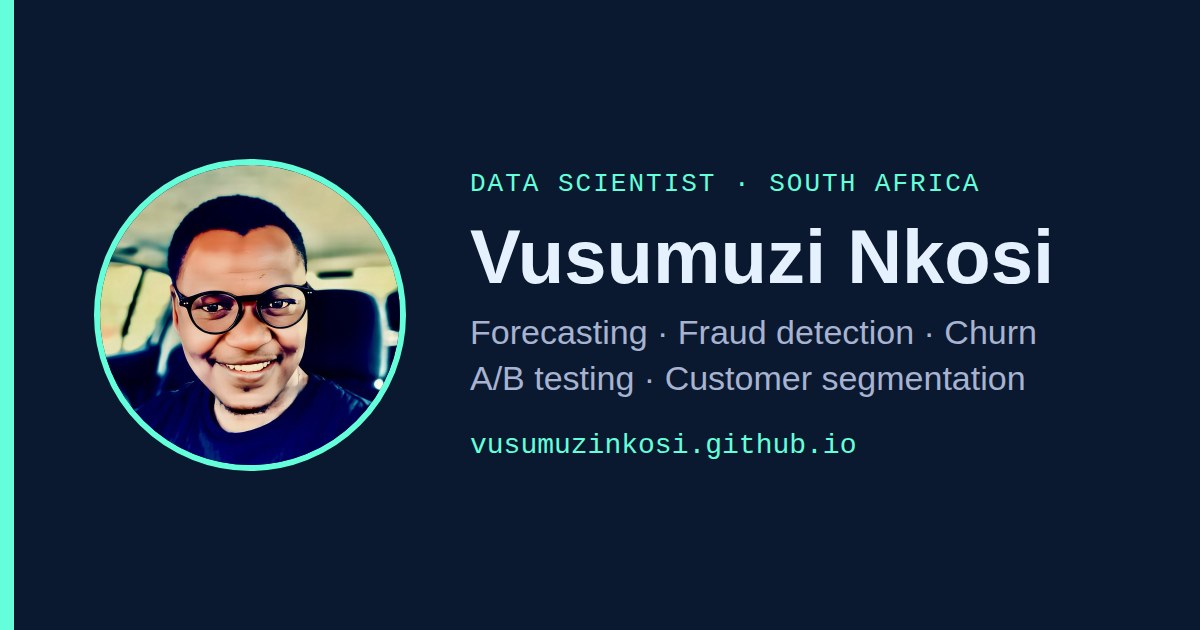
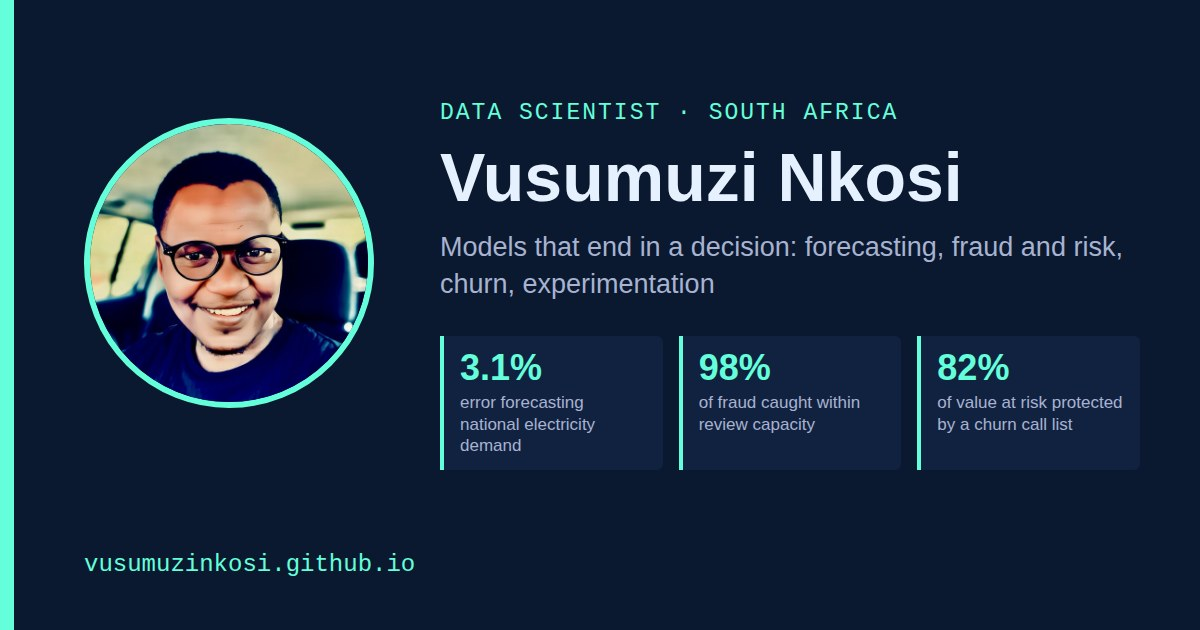
New main link preview with headline results
The site-wide preview image now shows a one-line summary and the three
headline results (3.1%, 98%, 82%) instead of a list of topics. Its URL
carries ?v=20261025a so link previews pick up the new image.

diff --git a/writing/from-the-classroom-to-data-science.html b/writing/from-the-classroom-to-data-science.html
@@ -9,12 +9,12 @@
     <meta property="og:title" content="From the classroom to data science | Vusumuzi Nkosi">
     <meta property="og:description" content="What carried over from nine years of teaching mathematics, what I had to learn from scratch, and what I would tell someone making a similar move.">
     <meta property="og:url" content="https://vusumuzinkosi.github.io/writing/from-the-classroom-to-data-science.html">
-    <meta property="og:image" content="https://vusumuzinkosi.github.io/assets/images/social-preview.jpg">
+    <meta property="og:image" content="https://vusumuzinkosi.github.io/assets/images/social-preview.jpg?v=20261025a">
     <meta property="og:image:width" content="1200">
     <meta property="og:image:height" content="630">
     <meta property="og:site_name" content="Vusumuzi Nkosi">
     <meta name="twitter:card" content="summary_large_image">
-    <meta name="twitter:image" content="https://vusumuzinkosi.github.io/assets/images/social-preview.jpg">
+    <meta name="twitter:image" content="https://vusumuzinkosi.github.io/assets/images/social-preview.jpg?v=20261025a">
     <link rel="canonical" href="https://vusumuzinkosi.github.io/writing/from-the-classroom-to-data-science.html">
     <meta name="theme-color" content="#0a192f">
     <link rel="icon" type="image/svg+xml" href="../favicon.svg">
@@ -34,7 +34,7 @@
       "description": "What carried over from nine years of teaching mathematics, what I had to learn from scratch, and what I would tell someone making a similar move.",
       "url": "https://vusumuzinkosi.github.io/writing/from-the-classroom-to-data-science.html",
       "mainEntityOfPage": "https://vusumuzinkosi.github.io/writing/from-the-classroom-to-data-science.html",
-      "image": "https://vusumuzinkosi.github.io/assets/images/social-preview.jpg",
+      "image": "https://vusumuzinkosi.github.io/assets/images/social-preview.jpg?v=20261025a",
       "datePublished": "2026-10-25",
       "author": {
         "@type": "Person",

diff --git a/writing/beat-the-baseline-first.html b/writing/beat-the-baseline-first.html
@@ -9,12 +9,12 @@
     <meta property="og:title" content="Beat the baseline first | Vusumuzi Nkosi">
     <meta property="og:description" content="Why every model I build has to beat something simple before I trust it, with numbers from my own projects.">
     <meta property="og:url" content="https://vusumuzinkosi.github.io/writing/beat-the-baseline-first.html">
-    <meta property="og:image" content="https://vusumuzinkosi.github.io/assets/images/social-preview.jpg">
+    <meta property="og:image" content="https://vusumuzinkosi.github.io/assets/images/social-preview.jpg?v=20261025a">
     <meta property="og:image:width" content="1200">
     <meta property="og:image:height" content="630">
     <meta property="og:site_name" content="Vusumuzi Nkosi">
     <meta name="twitter:card" content="summary_large_image">
-    <meta name="twitter:image" content="https://vusumuzinkosi.github.io/assets/images/social-preview.jpg">
+    <meta name="twitter:image" content="https://vusumuzinkosi.github.io/assets/images/social-preview.jpg?v=20261025a">
     <link rel="canonical" href="https://vusumuzinkosi.github.io/writing/beat-the-baseline-first.html">
     <meta name="theme-color" content="#0a192f">
     <link rel="icon" type="image/svg+xml" href="../favicon.svg">
@@ -34,7 +34,7 @@
       "description": "Why every model I build has to beat something simple before I trust it, with numbers from my own projects.",
       "url": "https://vusumuzinkosi.github.io/writing/beat-the-baseline-first.html",
       "mainEntityOfPage": "https://vusumuzinkosi.github.io/writing/beat-the-baseline-first.html",
-      "image": "https://vusumuzinkosi.github.io/assets/images/social-preview.jpg",
+      "image": "https://vusumuzinkosi.github.io/assets/images/social-preview.jpg?v=20261025a",
       "datePublished": "2026-10-24",
       "author": {
         "@type": "Person",

diff --git a/index.html b/index.html
@@ -9,12 +9,12 @@
     <meta property="og:title" content="Vusumuzi Nkosi | Data Scientist | Forecasting, Fraud &amp; Risk Analytics, Experimentation">
     <meta property="og:description" content="Data scientist in South Africa and mathematics lecturer at Majuba TVET College. Projects in forecasting, fraud detection, churn, A/B testing and segmentation, plus writing on data science, teaching and changing careers.">
     <meta property="og:url" content="https://vusumuzinkosi.github.io/">
-    <meta property="og:image" content="https://vusumuzinkosi.github.io/assets/images/social-preview.jpg">
+    <meta property="og:image" content="https://vusumuzinkosi.github.io/assets/images/social-preview.jpg?v=20261025a">
     <meta property="og:image:width" content="1200">
     <meta property="og:image:height" content="630">
     <meta property="og:site_name" content="Vusumuzi Nkosi">
     <meta name="twitter:card" content="summary_large_image">
-    <meta name="twitter:image" content="https://vusumuzinkosi.github.io/assets/images/social-preview.jpg">
+    <meta name="twitter:image" content="https://vusumuzinkosi.github.io/assets/images/social-preview.jpg?v=20261025a">
     <link rel="canonical" href="https://vusumuzinkosi.github.io/">
     <meta name="theme-color" content="#0a192f">
     <script type="application/ld+json">

diff --git a/projects/index.html b/projects/index.html
@@ -9,12 +9,12 @@
     <meta property="og:title" content="Projects | Vusumuzi Nkosi">
     <meta property="og:description" content="Five end-to-end data science case studies: Eskom demand forecasting, mobile money fraud detection, churn prediction, an A/B test and customer segmentation.">
     <meta property="og:url" content="https://vusumuzinkosi.github.io/projects/">
-    <meta property="og:image" content="https://vusumuzinkosi.github.io/assets/images/social-preview.jpg">
+    <meta property="og:image" content="https://vusumuzinkosi.github.io/assets/images/social-preview.jpg?v=20261025a">
     <meta property="og:image:width" content="1200">
     <meta property="og:image:height" content="630">
     <meta property="og:site_name" content="Vusumuzi Nkosi">
     <meta name="twitter:card" content="summary_large_image">
-    <meta name="twitter:image" content="https://vusumuzinkosi.github.io/assets/images/social-preview.jpg">
+    <meta name="twitter:image" content="https://vusumuzinkosi.github.io/assets/images/social-preview.jpg?v=20261025a">
     <link rel="canonical" href="https://vusumuzinkosi.github.io/projects/">
     <meta name="theme-color" content="#0a192f">
     <link rel="icon" type="image/svg+xml" href="../favicon.svg">

diff --git a/teaching.html b/teaching.html
@@ -9,12 +9,12 @@
     <meta property="og:title" content="Teaching | Vusumuzi Nkosi">
     <meta property="og:description" content="Vusumuzi Nkosi has taught mathematics and IT since 2012, as a Senior Lecturer at Majuba TVET College and before that at Mdumiseni High School.">
     <meta property="og:url" content="https://vusumuzinkosi.github.io/teaching.html">
-    <meta property="og:image" content="https://vusumuzinkosi.github.io/assets/images/social-preview.jpg">
+    <meta property="og:image" content="https://vusumuzinkosi.github.io/assets/images/social-preview.jpg?v=20261025a">
     <meta property="og:image:width" content="1200">
     <meta property="og:image:height" content="630">
     <meta property="og:site_name" content="Vusumuzi Nkosi">
     <meta name="twitter:card" content="summary_large_image">
-    <meta name="twitter:image" content="https://vusumuzinkosi.github.io/assets/images/social-preview.jpg">
+    <meta name="twitter:image" content="https://vusumuzinkosi.github.io/assets/images/social-preview.jpg?v=20261025a">
     <link rel="canonical" href="https://vusumuzinkosi.github.io/teaching.html">
     <meta name="theme-color" content="#0a192f">
     <link rel="icon" type="image/svg+xml" href="favicon.svg">

diff --git a/about.html b/about.html
@@ -9,12 +9,12 @@
     <meta property="og:title" content="About | Vusumuzi Nkosi">
     <meta property="og:description" content="Vusumuzi Nkosi is a data scientist in Newcastle, KwaZulu-Natal, with more than nine years of experience teaching mathematics and IT.">
     <meta property="og:url" content="https://vusumuzinkosi.github.io/about.html">
-    <meta property="og:image" content="https://vusumuzinkosi.github.io/assets/images/social-preview.jpg">
+    <meta property="og:image" content="https://vusumuzinkosi.github.io/assets/images/social-preview.jpg?v=20261025a">
     <meta property="og:image:width" content="1200">
     <meta property="og:image:height" content="630">
     <meta property="og:site_name" content="Vusumuzi Nkosi">
     <meta name="twitter:card" content="summary_large_image">
-    <meta name="twitter:image" content="https://vusumuzinkosi.github.io/assets/images/social-preview.jpg">
+    <meta name="twitter:image" content="https://vusumuzinkosi.github.io/assets/images/social-preview.jpg?v=20261025a">
     <link rel="canonical" href="https://vusumuzinkosi.github.io/about.html">
     <meta name="theme-color" content="#0a192f">
     <link rel="icon" type="image/svg+xml" href="favicon.svg">

diff --git a/contact.html b/contact.html
@@ -9,12 +9,12 @@
     <meta property="og:title" content="Contact | Vusumuzi Nkosi">
     <meta property="og:description" content="Contact Vusumuzi Nkosi about data scientist and data analyst roles, data projects, or teaching and training.">
     <meta property="og:url" content="https://vusumuzinkosi.github.io/contact.html">
-    <meta property="og:image" content="https://vusumuzinkosi.github.io/assets/images/social-preview.jpg">
+    <meta property="og:image" content="https://vusumuzinkosi.github.io/assets/images/social-preview.jpg?v=20261025a">
     <meta property="og:image:width" content="1200">
     <meta property="og:image:height" content="630">
     <meta property="og:site_name" content="Vusumuzi Nkosi">
     <meta name="twitter:card" content="summary_large_image">
-    <meta name="twitter:image" content="https://vusumuzinkosi.github.io/assets/images/social-preview.jpg">
+    <meta name="twitter:image" content="https://vusumuzinkosi.github.io/assets/images/social-preview.jpg?v=20261025a">
     <link rel="canonical" href="https://vusumuzinkosi.github.io/contact.html">
     <meta name="theme-color" content="#0a192f">
     <link rel="icon" type="image/svg+xml" href="favicon.svg">

diff --git a/writing/index.html b/writing/index.html
@@ -9,12 +9,12 @@
     <meta property="og:title" content="Writing | Vusumuzi Nkosi">
     <meta property="og:description" content="Writing by Vusumuzi Nkosi on data science, teaching and changing careers.">
     <meta property="og:url" content="https://vusumuzinkosi.github.io/writing/">
-    <meta property="og:image" content="https://vusumuzinkosi.github.io/assets/images/social-preview.jpg">
+    <meta property="og:image" content="https://vusumuzinkosi.github.io/assets/images/social-preview.jpg?v=20261025a">
     <meta property="og:image:width" content="1200">
     <meta property="og:image:height" content="630">
     <meta property="og:site_name" content="Vusumuzi Nkosi">
     <meta name="twitter:card" content="summary_large_image">
-    <meta name="twitter:image" content="https://vusumuzinkosi.github.io/assets/images/social-preview.jpg">
+    <meta name="twitter:image" content="https://vusumuzinkosi.github.io/assets/images/social-preview.jpg?v=20261025a">
     <link rel="canonical" href="https://vusumuzinkosi.github.io/writing/">
     <meta name="theme-color" content="#0a192f">
     <link rel="icon" type="image/svg+xml" href="../favicon.svg">

diff --git a/now.html b/now.html
@@ -9,12 +9,12 @@
     <meta property="og:title" content="Now | Vusumuzi Nkosi">
     <meta property="og:description" content="What Vusumuzi Nkosi is working on right now.">
     <meta property="og:url" content="https://vusumuzinkosi.github.io/now.html">
-    <meta property="og:image" content="https://vusumuzinkosi.github.io/assets/images/social-preview.jpg">
+    <meta property="og:image" content="https://vusumuzinkosi.github.io/assets/images/social-preview.jpg?v=20261025a">
     <meta property="og:image:width" content="1200">
     <meta property="og:image:height" content="630">
     <meta property="og:site_name" content="Vusumuzi Nkosi">
     <meta name="twitter:card" content="summary_large_image">
-    <meta name="twitter:image" content="https://vusumuzinkosi.github.io/assets/images/social-preview.jpg">
+    <meta name="twitter:image" content="https://vusumuzinkosi.github.io/assets/images/social-preview.jpg?v=20261025a">
     <link rel="canonical" href="https://vusumuzinkosi.github.io/now.html">
     <meta name="theme-color" content="#0a192f">
     <link rel="icon" type="image/svg+xml" href="favicon.svg">

diff --git a/404.html b/404.html
@@ -9,12 +9,12 @@
     <meta property="og:title" content="Page not found | Vusumuzi Nkosi">
     <meta property="og:description" content="Page not found.">
     <meta property="og:url" content="https://vusumuzinkosi.github.io/404.html">
-    <meta property="og:image" content="https://vusumuzinkosi.github.io/assets/images/social-preview.jpg">
+    <meta property="og:image" content="https://vusumuzinkosi.github.io/assets/images/social-preview.jpg?v=20261025a">
     <meta property="og:image:width" content="1200">
     <meta property="og:image:height" content="630">
     <meta property="og:site_name" content="Vusumuzi Nkosi">
     <meta name="twitter:card" content="summary_large_image">
-    <meta name="twitter:image" content="https://vusumuzinkosi.github.io/assets/images/social-preview.jpg">
+    <meta name="twitter:image" content="https://vusumuzinkosi.github.io/assets/images/social-preview.jpg?v=20261025a">
     <meta name="robots" content="noindex">
     <meta name="theme-color" content="#0a192f">
     <link rel="icon" type="image/svg+xml" href="/favicon.svg">
